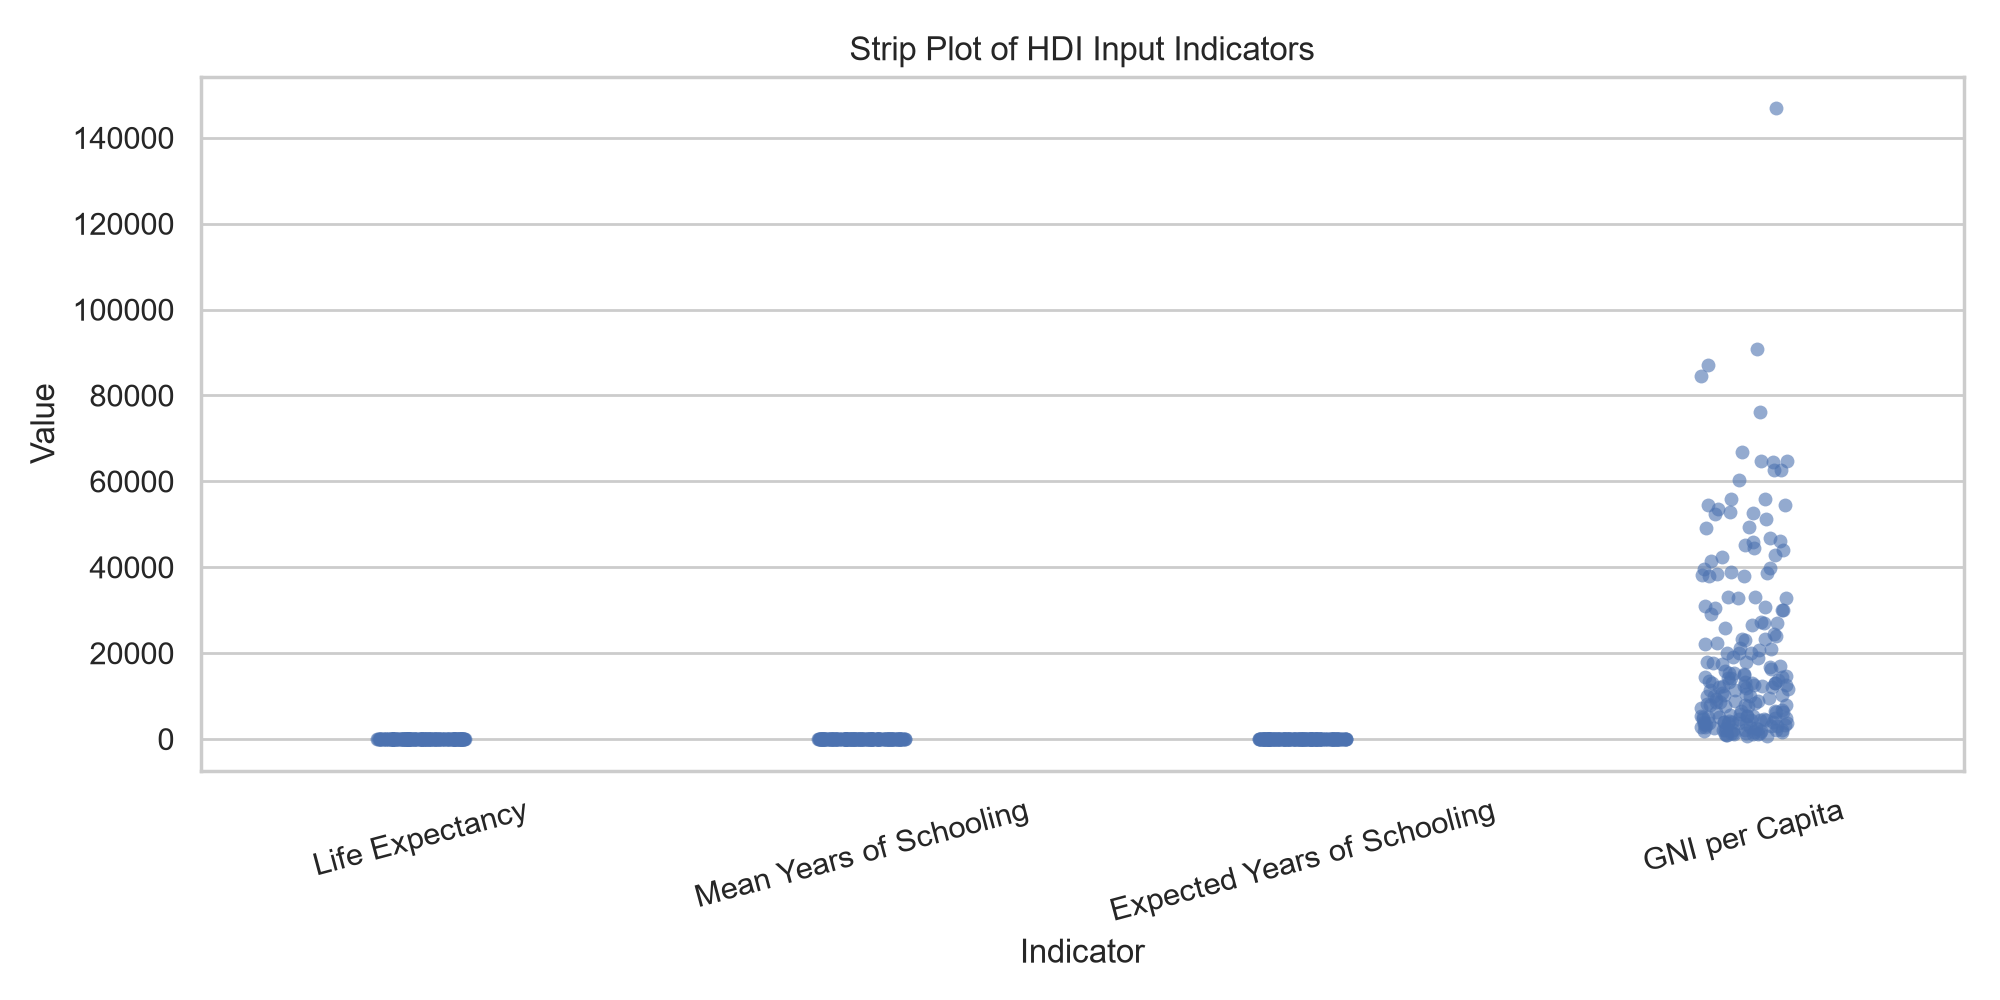
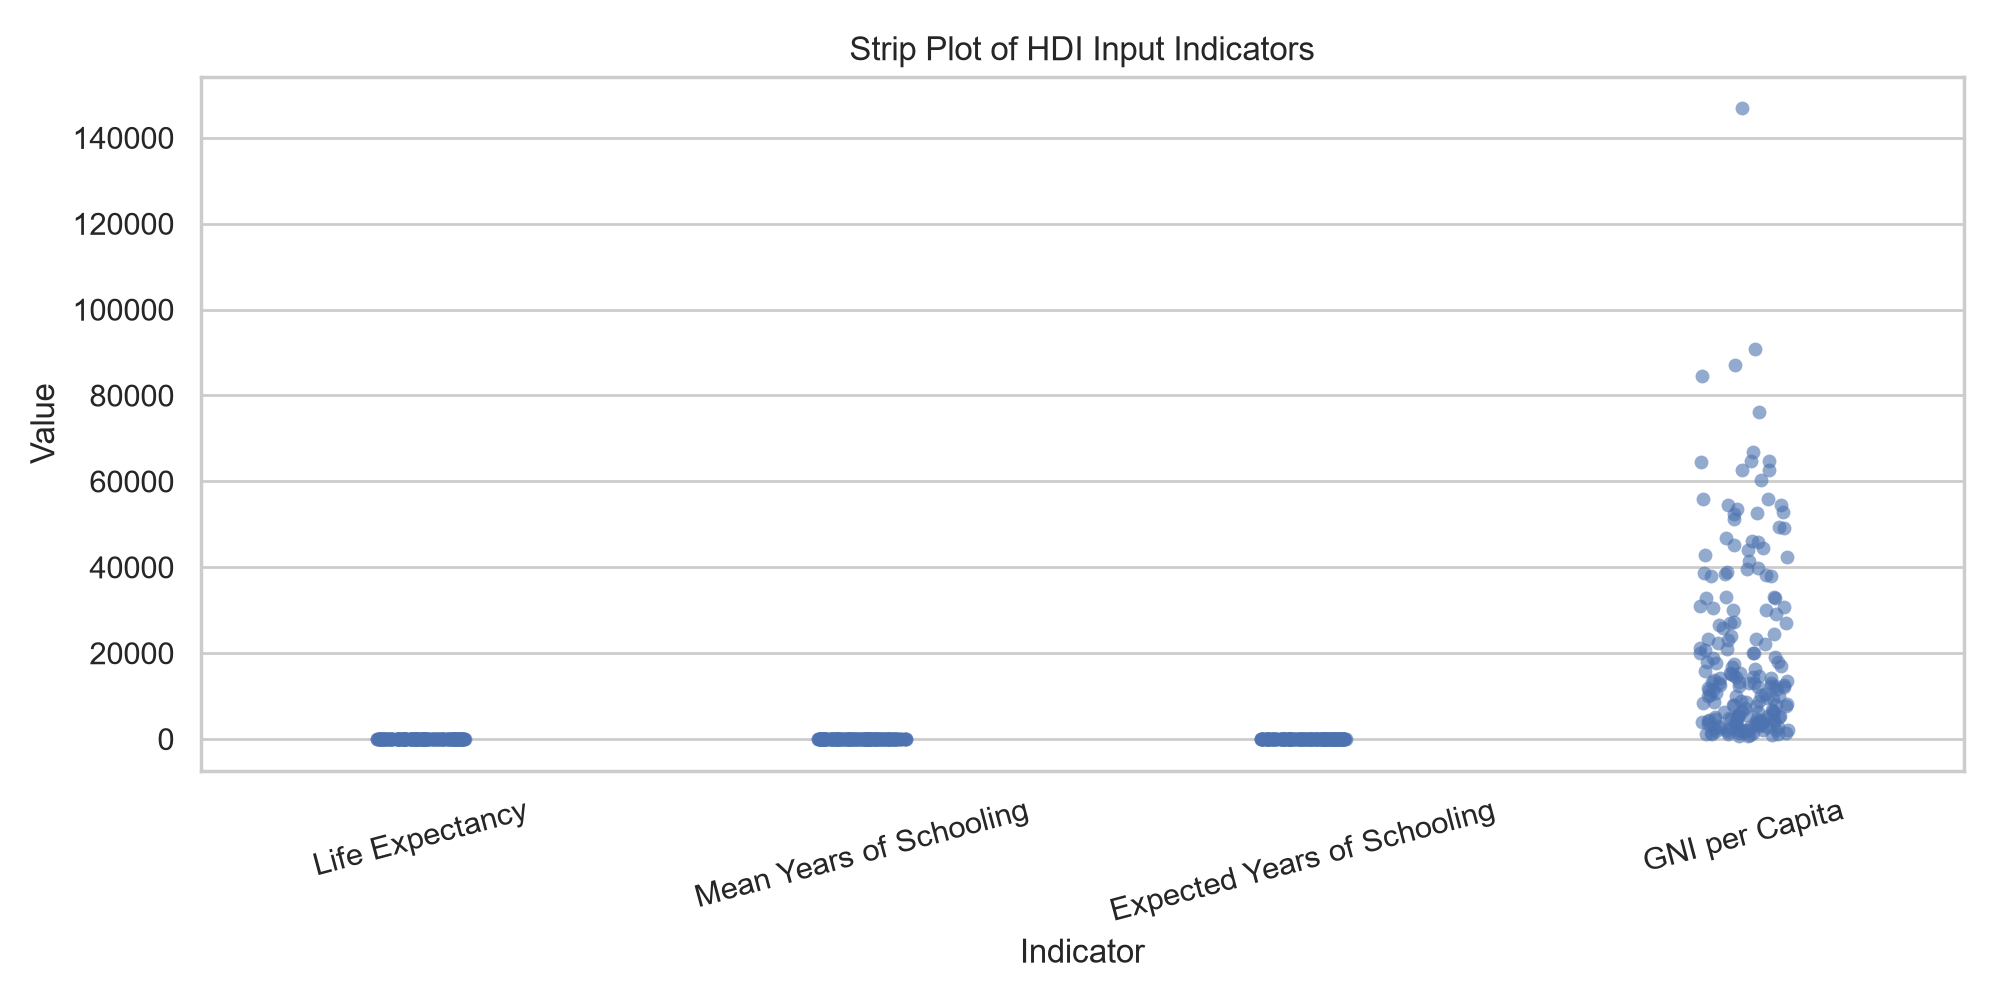
Prepare HDI predictor for deployment

Changed region(s): [[0.837, 0.434, 0.899, 0.744], [0.868, 0.093, 0.899, 0.124], [0.837, 0.341, 0.868, 0.372]]

diff --git a/HDI_Predictor/templates/index.html b/HDI_Predictor/templates/index.html
@@ -99,19 +99,19 @@
                 <form action="/predict" method="POST" class="prediction-form">
                     <div class="form-group">
                         <label for="life_expectancy">Life Expectancy</label>
-                        <input type="number" step="0.01" min="0" id="life_expectancy" name="life_expectancy" placeholder="e.g. 75.5" required>
+                        <input type="number" step="0.01" min="0" max="120" id="life_expectancy" name="life_expectancy" placeholder="e.g. 75.5" required>
                     </div>
                     <div class="form-group">
                         <label for="mean_schooling">Mean Years of Schooling</label>
-                        <input type="number" step="0.01" min="0" id="mean_schooling" name="mean_schooling" placeholder="e.g. 9.8" required>
+                        <input type="number" step="0.01" min="0" max="30" id="mean_schooling" name="mean_schooling" placeholder="e.g. 9.8" required>
                     </div>
                     <div class="form-group">
                         <label for="expected_schooling">Expected Years of Schooling</label>
-                        <input type="number" step="0.01" min="0" id="expected_schooling" name="expected_schooling" placeholder="e.g. 13.2" required>
+                        <input type="number" step="0.01" min="0" max="30" id="expected_schooling" name="expected_schooling" placeholder="e.g. 13.2" required>
                     </div>
                     <div class="form-group">
                         <label for="gni_per_capita">GNI per Capita</label>
-                        <input type="number" step="0.01" min="0" id="gni_per_capita" name="gni_per_capita" placeholder="e.g. 15980" required>
+                        <input type="number" step="0.01" min="0" max="250000" id="gni_per_capita" name="gni_per_capita" placeholder="e.g. 15980" required>
                     </div>
                     <button type="submit" class="primary-button form-button">Predict HDI</button>
                 </form>
@@ -119,7 +119,10 @@
         </section>
 
         <section class="developer-section" aria-label="Developer credit">
-            <p class="developer-credit">Developed by Kadali Naga Sri Krishna</p>
+            <div class="developer-credit">
+                <p id="rotating-quote">A better future starts with understanding today.</p>
+                <span>Developed by Kadali Naga Sri Krishna</span>
+            </div>
         </section>
     </main>
 
@@ -128,5 +131,30 @@
         <span>Empowering insights for a better tomorrow.</span>
         <span>Machine Learning Flask Project</span>
     </footer>
+
+    <script>
+        const hdiQuotes = [
+            "Progress begins where insight meets action.",
+            "Data becomes powerful when it helps people grow.",
+            "A better future starts with understanding today.",
+            "Human development is not just measured, it is built.",
+            "Behind every number is a story of health, learning, and opportunity.",
+            "Turn your pain into power.",
+            "Out of difficulties grow miracles."
+        ];
+
+        const quoteElement = document.getElementById("rotating-quote");
+        let quoteIndex = 0;
+
+        setInterval(() => {
+            quoteIndex = (quoteIndex + 1) % hdiQuotes.length;
+            quoteElement.classList.add("quote-fade");
+
+            setTimeout(() => {
+                quoteElement.textContent = hdiQuotes[quoteIndex];
+                quoteElement.classList.remove("quote-fade");
+            }, 700);
+        }, 5000);
+    </script>
 </body>
 </html>

diff --git a/HDI_Predictor/static/style.css b/HDI_Predictor/static/style.css
@@ -73,16 +73,6 @@ a {
     white-space: nowrap;
 }
 
-.brand-logo,
-.footer-logo {
-    width: 36px;
-    height: 36px;
-    display: block;
-    border-radius: 999px;
-    background: var(--black);
-    object-fit: cover;
-}
-
 .nav-links {
     display: flex;
     align-items: center;
@@ -423,18 +413,47 @@ input:focus {
 .developer-credit {
     position: relative;
     z-index: 1;
-    margin: 0 20px 28px;
-    padding: 10px 16px;
-    border: 1px solid rgba(255, 255, 255, 0.14);
-    border-radius: 999px;
-    background: rgba(7, 10, 18, 0.38);
+    margin: 0 20px 34px;
+    width: min(1120px, calc(100% - 40px));
+    padding: 0;
+    border: 0;
+    border-radius: 0;
+    background: transparent;
     color: rgba(255, 255, 255, 0.84);
     text-align: center;
-    font-size: 0.92rem;
+    text-shadow: 0 4px 26px rgba(0, 0, 0, 0.78);
+}
+
+.developer-credit p {
+    margin: 0 0 10px;
+    color: #ffffff;
+    font-size: clamp(1rem, 2vw, 1.55rem);
+    font-weight: 600;
+    line-height: 1.18;
+    white-space: nowrap;
+    transition: opacity 0.7s ease, transform 0.7s ease;
+}
+
+.developer-credit p::before {
+    content: open-quote;
+}
+
+.developer-credit p::after {
+    content: close-quote;
+}
+
+.developer-credit span {
+    display: block;
+    color: rgba(255, 255, 255, 0.68);
+    font-size: 0.78rem;
     font-weight: 500;
-    letter-spacing: 0.08em;
+    letter-spacing: 0.14em;
     text-transform: uppercase;
-    backdrop-filter: blur(8px);
+}
+
+.developer-credit p.quote-fade {
+    opacity: 0;
+    transform: translateY(10px);
 }
 
 .result-page {
@@ -577,6 +596,11 @@ input:focus {
 
     .hero h1 {
         font-size: 2.15rem;
+    }
+
+    .developer-credit p {
+        font-size: 0.88rem;
+        white-space: normal;
     }
 
     .feature-card {

diff --git a/HDI_Predictor/app.py b/HDI_Predictor/app.py
@@ -17,6 +17,12 @@ FEATURE_COLUMNS = [
     "Expected Years of Schooling",
     "GNI per Capita",
 ]
+INPUT_LIMITS = {
+    "Life Expectancy": (0, 120),
+    "Mean Years of Schooling": (0, 30),
+    "Expected Years of Schooling": (0, 30),
+    "GNI per Capita": (0, 250000),
+}
 
 
 def load_model():
@@ -60,6 +66,16 @@ def category_message(category):
     return messages.get(category, "HDI category could not be explained.")
 
 
+def validate_inputs(values):
+    """Check that values stay inside realistic ranges before prediction."""
+    for column_name, value in zip(FEATURE_COLUMNS, values):
+        minimum, maximum = INPUT_LIMITS[column_name]
+        if value < minimum or value > maximum:
+            raise ValueError(
+                f"{column_name} must be between {minimum:g} and {maximum:g}."
+            )
+
+
 @app.route("/")
 def home():
     """Show the home page and prediction form."""
@@ -77,10 +93,10 @@ def predict():
         expected_schooling = float(request.form["expected_schooling"])
         gni_per_capita = float(request.form["gni_per_capita"])
 
-        input_data = pd.DataFrame(
-            [[life_expectancy, mean_schooling, expected_schooling, gni_per_capita]],
-            columns=FEATURE_COLUMNS,
-        )
+        values = [life_expectancy, mean_schooling, expected_schooling, gni_per_capita]
+        validate_inputs(values)
+
+        input_data = pd.DataFrame([values], columns=FEATURE_COLUMNS)
 
         predicted_score = round(float(model.predict(input_data)[0]), 3)
         predicted_score = max(0, min(1, predicted_score))
@@ -95,11 +111,8 @@ def predict():
 
     except FileNotFoundError as error:
         return render_template("result.html", error=str(error))
-    except ValueError:
-        return render_template(
-            "result.html",
-            error="Please enter valid numeric values in every field.",
-        )
+    except ValueError as error:
+        return render_template("result.html", error=str(error))
     except Exception as error:
         return render_template(
             "result.html",
@@ -108,4 +121,6 @@ def predict():
 
 
 if __name__ == "__main__":
-    app.run(debug=True, use_reloader=False)
+    port = int(os.environ.get("PORT", 5000))
+    debug_mode = os.environ.get("FLASK_DEBUG", "0") == "1"
+    app.run(host="0.0.0.0", port=port, debug=debug_mode, use_reloader=False)

diff --git a/HDI_Predictor/README.md b/HDI_Predictor/README.md
@@ -89,6 +89,18 @@ Open the local URL shown in the terminal, usually:
 http://127.0.0.1:5000
 ```
 
+## Deployment Notes
+
+For platforms such as Render, Railway, or Heroku, set the project root to the
+`HDI_Predictor` folder. The included `Procfile` starts the app with Gunicorn:
+
+```text
+web: gunicorn app:app
+```
+
+The app reads the deployment port from the `PORT` environment variable and keeps
+debug mode off unless `FLASK_DEBUG=1` is set.
+
 ## Sample Input
 
 - Life Expectancy: `75.5`
